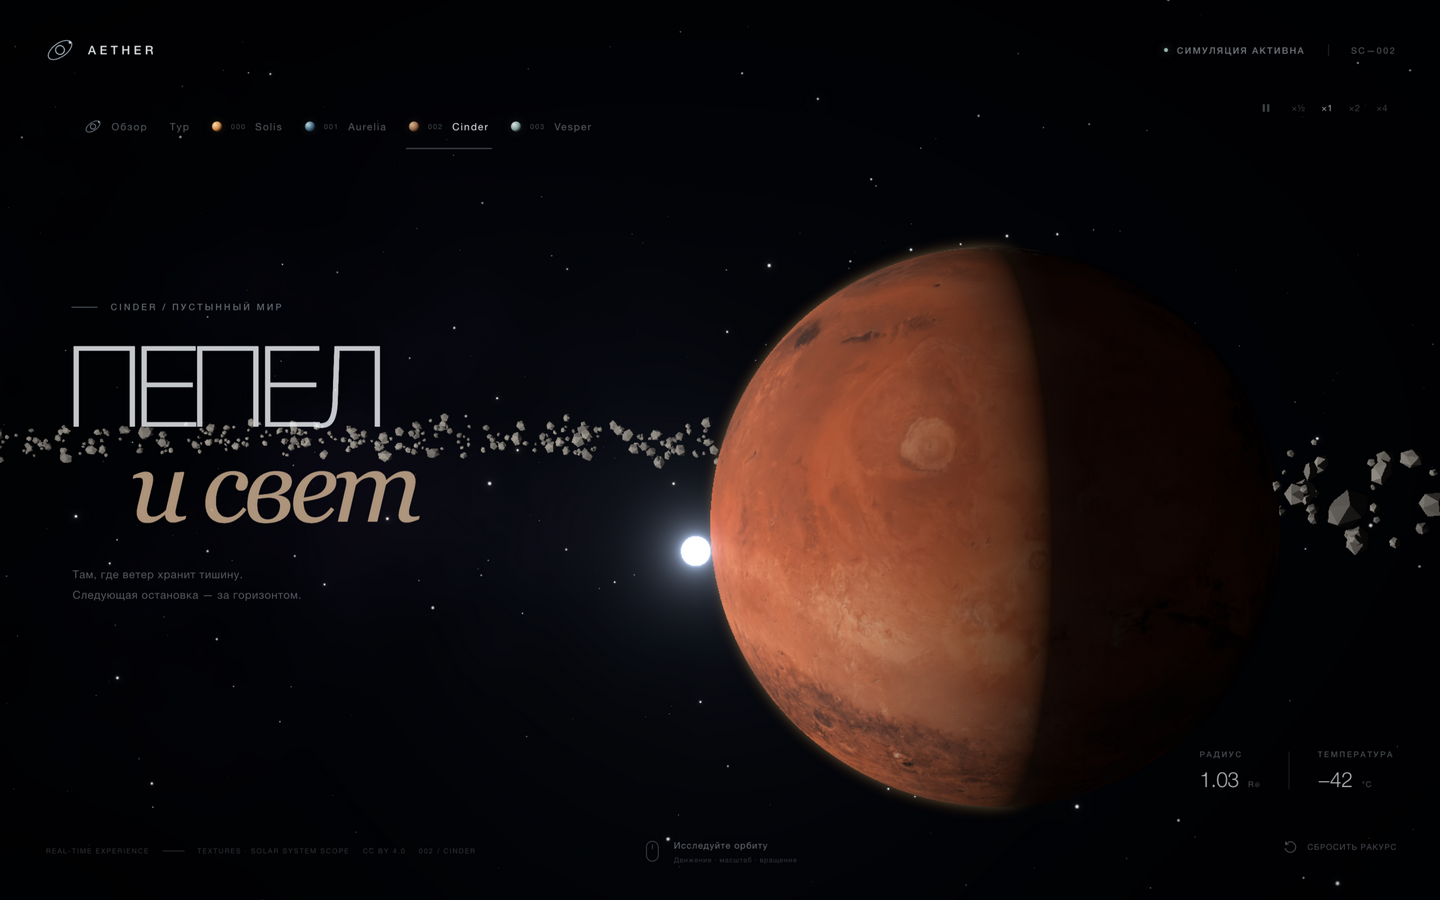
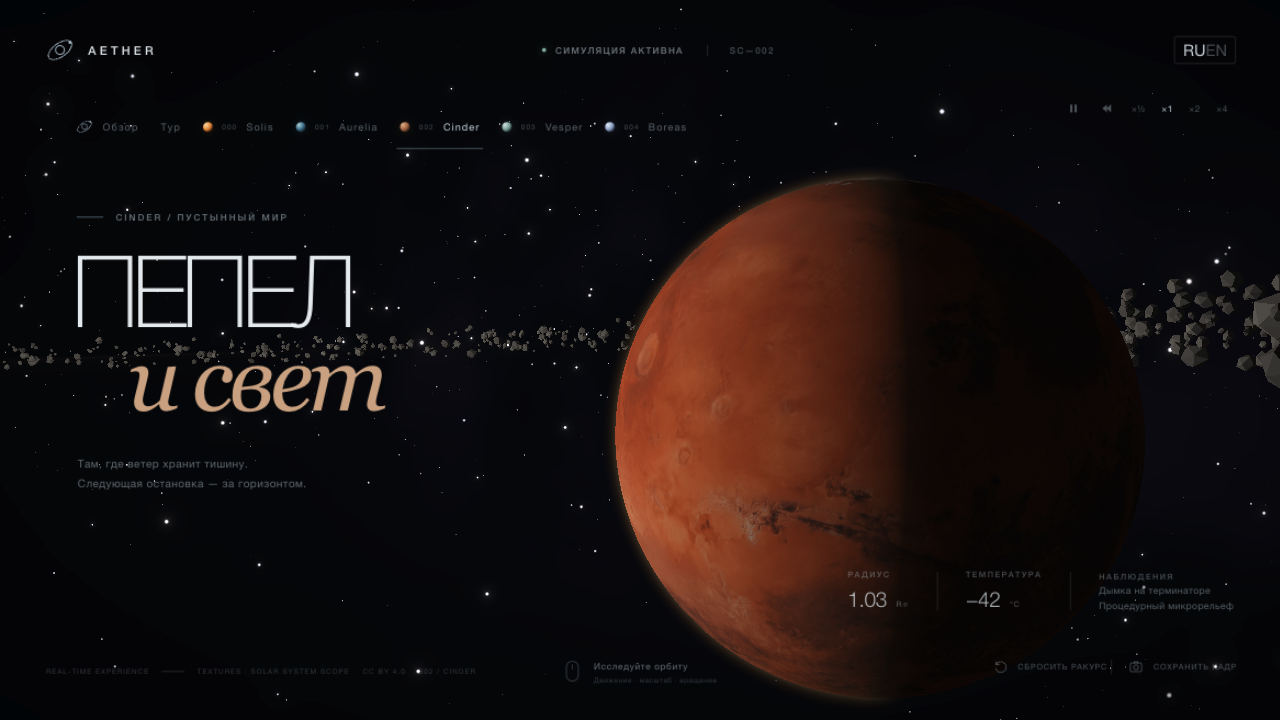
Refresh the README and retake every screenshot
New frames from the live scene: the system overview with ringed Vesper
and the Milky Way band, Aurelia's night side with the observations card,
Cinder, Vesper's rings with the planet shadow, Solis with three active
prominence loops, the mid-flight arc between Aurelia and Cinder with the
belt dust line, and the 390x844 mobile overview with the RU/EN toggle.
Text: What's-inside gains sky, world-card and RU/EN bullets; the
structure block fixes Vesper's type, lists prominences, ring shadows,
both comet tails, ring-shadow.ts and strings.ts; the controls table gains
the language toggle row.

diff --git a/README.md b/README.md
@@ -17,11 +17,14 @@
 - **Пояс астероидов** — три кольца обломков между орбитами Cinder и Vesper; каждое вращается со своей угловой скоростью, освещение считается от звезды. Вдоль пояса лежит зодиакальный свет — тёплая дымка рассеянного звёздного света на пыли: ярче всего у звезды, тает к внешним орбитам.
 - **Комета** — маленький ледяной гость **Boreas** на орбите кеплеровской формы (e ≈ 0.7): разгоняется у перицентра внутри орбиты Aurelia, уходит за орбиту Vesper. Хвоста два: ионный тянется строго от звезды, пылевой — шире, теплее цветом и изогнут по следу орбиты, как настоящий отстающий шлейф пыли; оба удлиняются и разгораются по мере приближения к перицентру. На неё можно перелететь — кнопкой, с обзорной карты или по диплинку.
 - **Атмосферы** — однократное Rayleigh/Mie-рассеяние по лучу зрения: голубая дымка и светящийся лимб у Aurelia, тёплый закатный переход у терминатора, пыльный оттенок у Cinder и ледяная дымка у Vesper. Ночная сторона остаётся тёмной.
+- **Небо** — 5400 звёзд с мерцанием и адаптивным размером точек; плотность растёт к полосе Млечного пути, согласованной с лентой туманности, — небо собирается в одну галактику.
 - **Перелёты** — камера отходит по дуге, меняет угол обзора и выходит на орбиту выбранного мира за ~4 секунды; интерфейс на это время скрывается.
 - **Управление временем** — пауза, скорость ×½–×4 и обратный ход: орбиты, фазы Луны, комета и кипение звезды замедляются, ускоряются, замирают или текут вспять; камера при этом остаётся живой в любом режиме.
 - **Гелиоцентрическая система** — звезда в центре, три слегка наклонённые орбиты с медленным движением планет по ним; освещение и терминаторы считаются от направления на звезду, поэтому фаза планеты меняется по мере движения. Освещённость падает с удалением от Solis — Vesper получает вдвое-втрое меньше света, чем Aurelia (степень 1.5 — экспозиционная условность между честным квадратом расстояния и читаемостью кадра).
 - **Тур-режим** — кнопка «Тур» включает автоматический обход: Aurelia → Cinder → Vesper → Boreas → Solis → обзор системы, по ~7 секунд на каждой остановке; любое ручное перемещение останавливает тур.
 - **Обзор системы** — все три мира, звезда и пояс астероидов в одном кадре; клик по сфере планеты, звезде или подписи запускает перелёт. Кадрирование учитывает перспективу, чтобы ближние планеты не выходили за кадр.
+- **Карточка мира** — телеметрия на орбите дополнена строкой «Наблюдения»: короткие подсказки о том, что искать с этого ракурса — авроры, тень колец, протуберанцы, оба хвоста кометы.
+- **RU / EN** — интерфейс на двух языках, переключатель в шапке, выбор сохраняется между визитами.
 - **Адаптивное качество** — разрешение Canvas меняется ступенями от 0.85 до 1.75 DPR по устойчивому FPS, DOM-интерфейс остаётся чётким.
 - **Бережный режим** — при `prefers-reduced-motion` перелёты мгновенные, вращение и мерцание звёзд отключаются.
 
@@ -93,6 +96,7 @@ npm run test:smoke
 | Кнопка обратного хода (◀◀ рядом с паузой) | Время течёт назад: орбиты, фазы, комета и кипение звезды движутся в обратную сторону |
 | Кнопка паузы | Остановка и возобновление времени |
 | Кнопка «Тур» | Автоматический кинематографичный обход системы |
+| Переключатель RU / EN в шапке | Смена языка интерфейса; выбор сохраняется |
 | Кнопка «Сохранить кадр» | PNG текущего вида с именем вида в имени файла |
 | `H` (или `Р` на русской раскладке) | Режим кино: скрыть и вернуть интерфейс |
 
@@ -116,24 +120,26 @@ src/
     SpaceScene.tsx     # сборка сцены, ready-состояние, постобработка
     SceneCanvas.tsx    # Canvas, DPR-адаптация и восстановление WebGL-контекста
     CameraRig.tsx      # инерционная камера, перелёты, кадрирование обзора
-    Star.tsx           # Solis: грануляция, пятна, корона и гало
-    Planet.tsx         # Aurelia: PBR-поверхность, облака и их тени
+    Star.tsx           # Solis: грануляция, пятна, корона, гало и протуберанцы
+    Planet.tsx         # Aurelia: PBR-поверхность, облака, авроры и их тени
     Moon.tsx           # луна Aurelia: кратеры, моря, тень затмения
     Cinder.tsx         # пустынная поверхность второго мира
-    Vesper.tsx         # газовый гигант: полосы, шторм и кольца с тенью планеты
-    Belt.tsx           # пояс астероидов: три кольца InstancedMesh от звезды
-    Comet.tsx          # комета: голова, кома и хвост из частиц от звезды
+    Vesper.tsx         # ледяной мини-нептун: полосы, шторм и кольца с тенями
+    Belt.tsx           # пояс астероидов и зодиакальный свет
+    Comet.tsx          # комета: голова, кома, ионный и пылевой хвосты
     Atmosphere.tsx     # общее Rayleigh/Mie-рассеяние, вариант с пылью
     SystemOverview.tsx # орбиты, маршрут и кликабельные подписи
     Starfield.tsx      # звёзды с мерцанием: плотность растёт к галактической полосе
     Backdrop.tsx       # туманность
   comet.ts             # кеплеровская орбита кометы: уравнение Кеплера, позиции
   prominences.ts       # петли протуберанцев: дуга между ножками, жизненный цикл
+  ring-shadow.ts       # геометрия тени колец: пересечение луча солнца с плоскостью
   galactic.ts          # Млечный путь: направления звёзд вдоль галактической полосы
-  camera-math.ts       # смещения камеры и кадрирование обзора
+  camera-math.ts       # смещения камеры, кадрирование обзора, сериализация ракурса
+  strings.ts           # интерфейсные строки: RU и EN словари, локаль
   *.test.ts            # тесты математики орбит, кометы, камеры, протуберанцев, теней колец и полосы
   shaders/noise.ts     # simplex/fbm для микрорельефа
-  planets.ts           # имена и телеметрия миров и звезды
+  planets.ts           # имена, телеметрия и локализованная копия миров и звезды
   orbits.ts            # радиусы, наклоны, скорости и фазы орбит; позиции планет
   App.tsx / App.css    # интерфейс, навигация, loader
 public/textures/       # WebP-карты и ATTRIBUTION.txt
